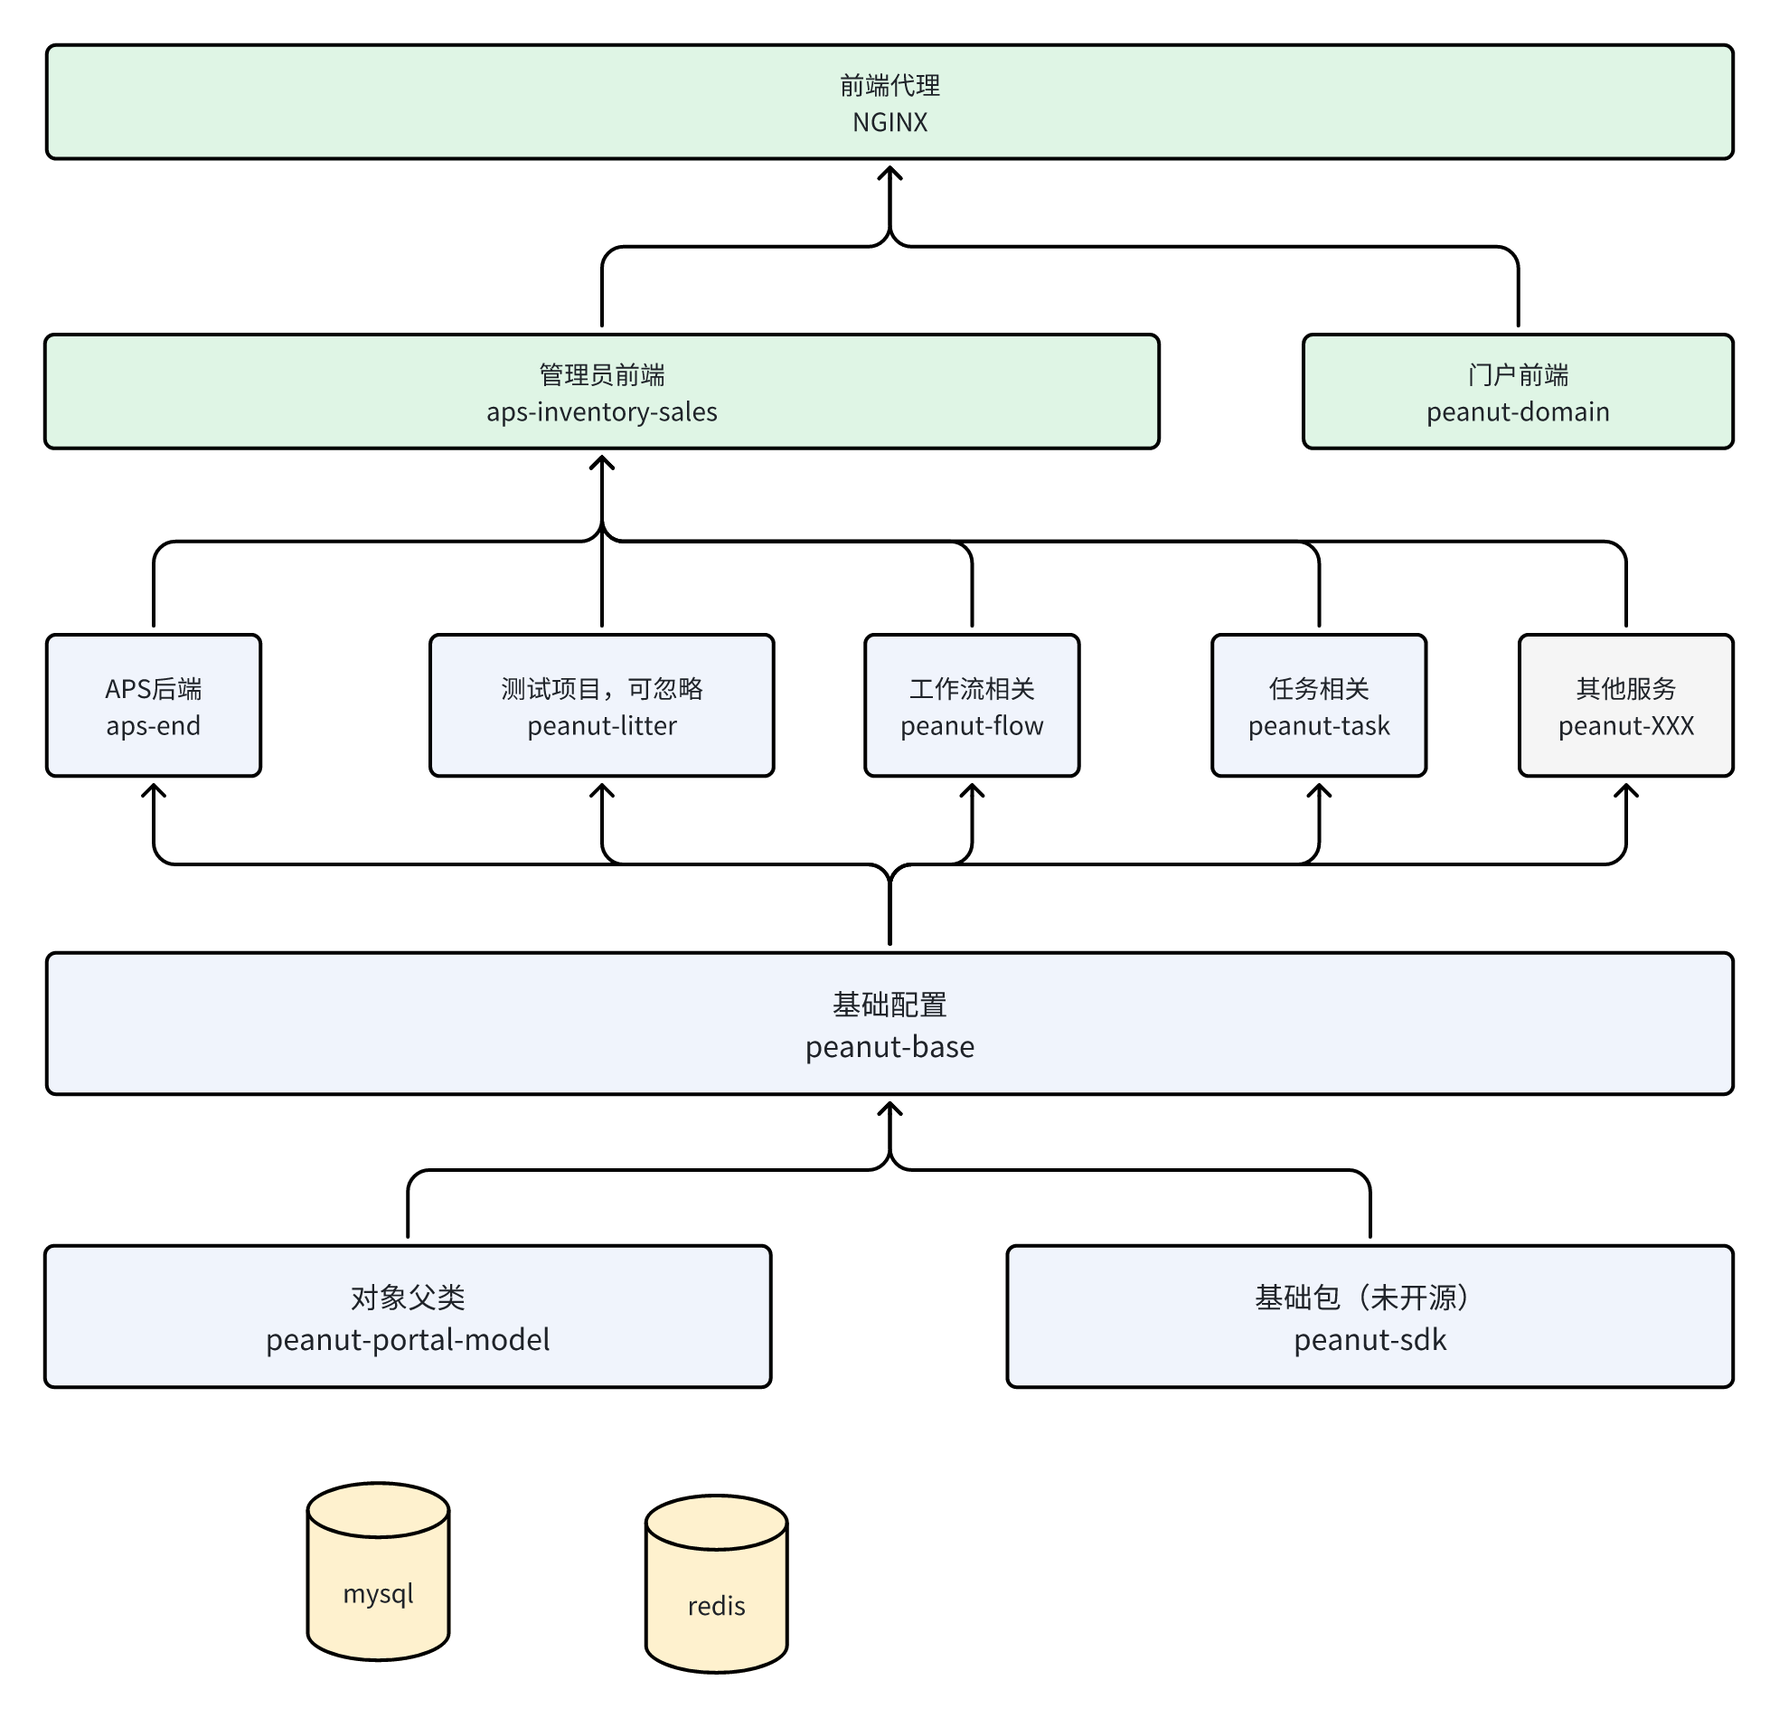
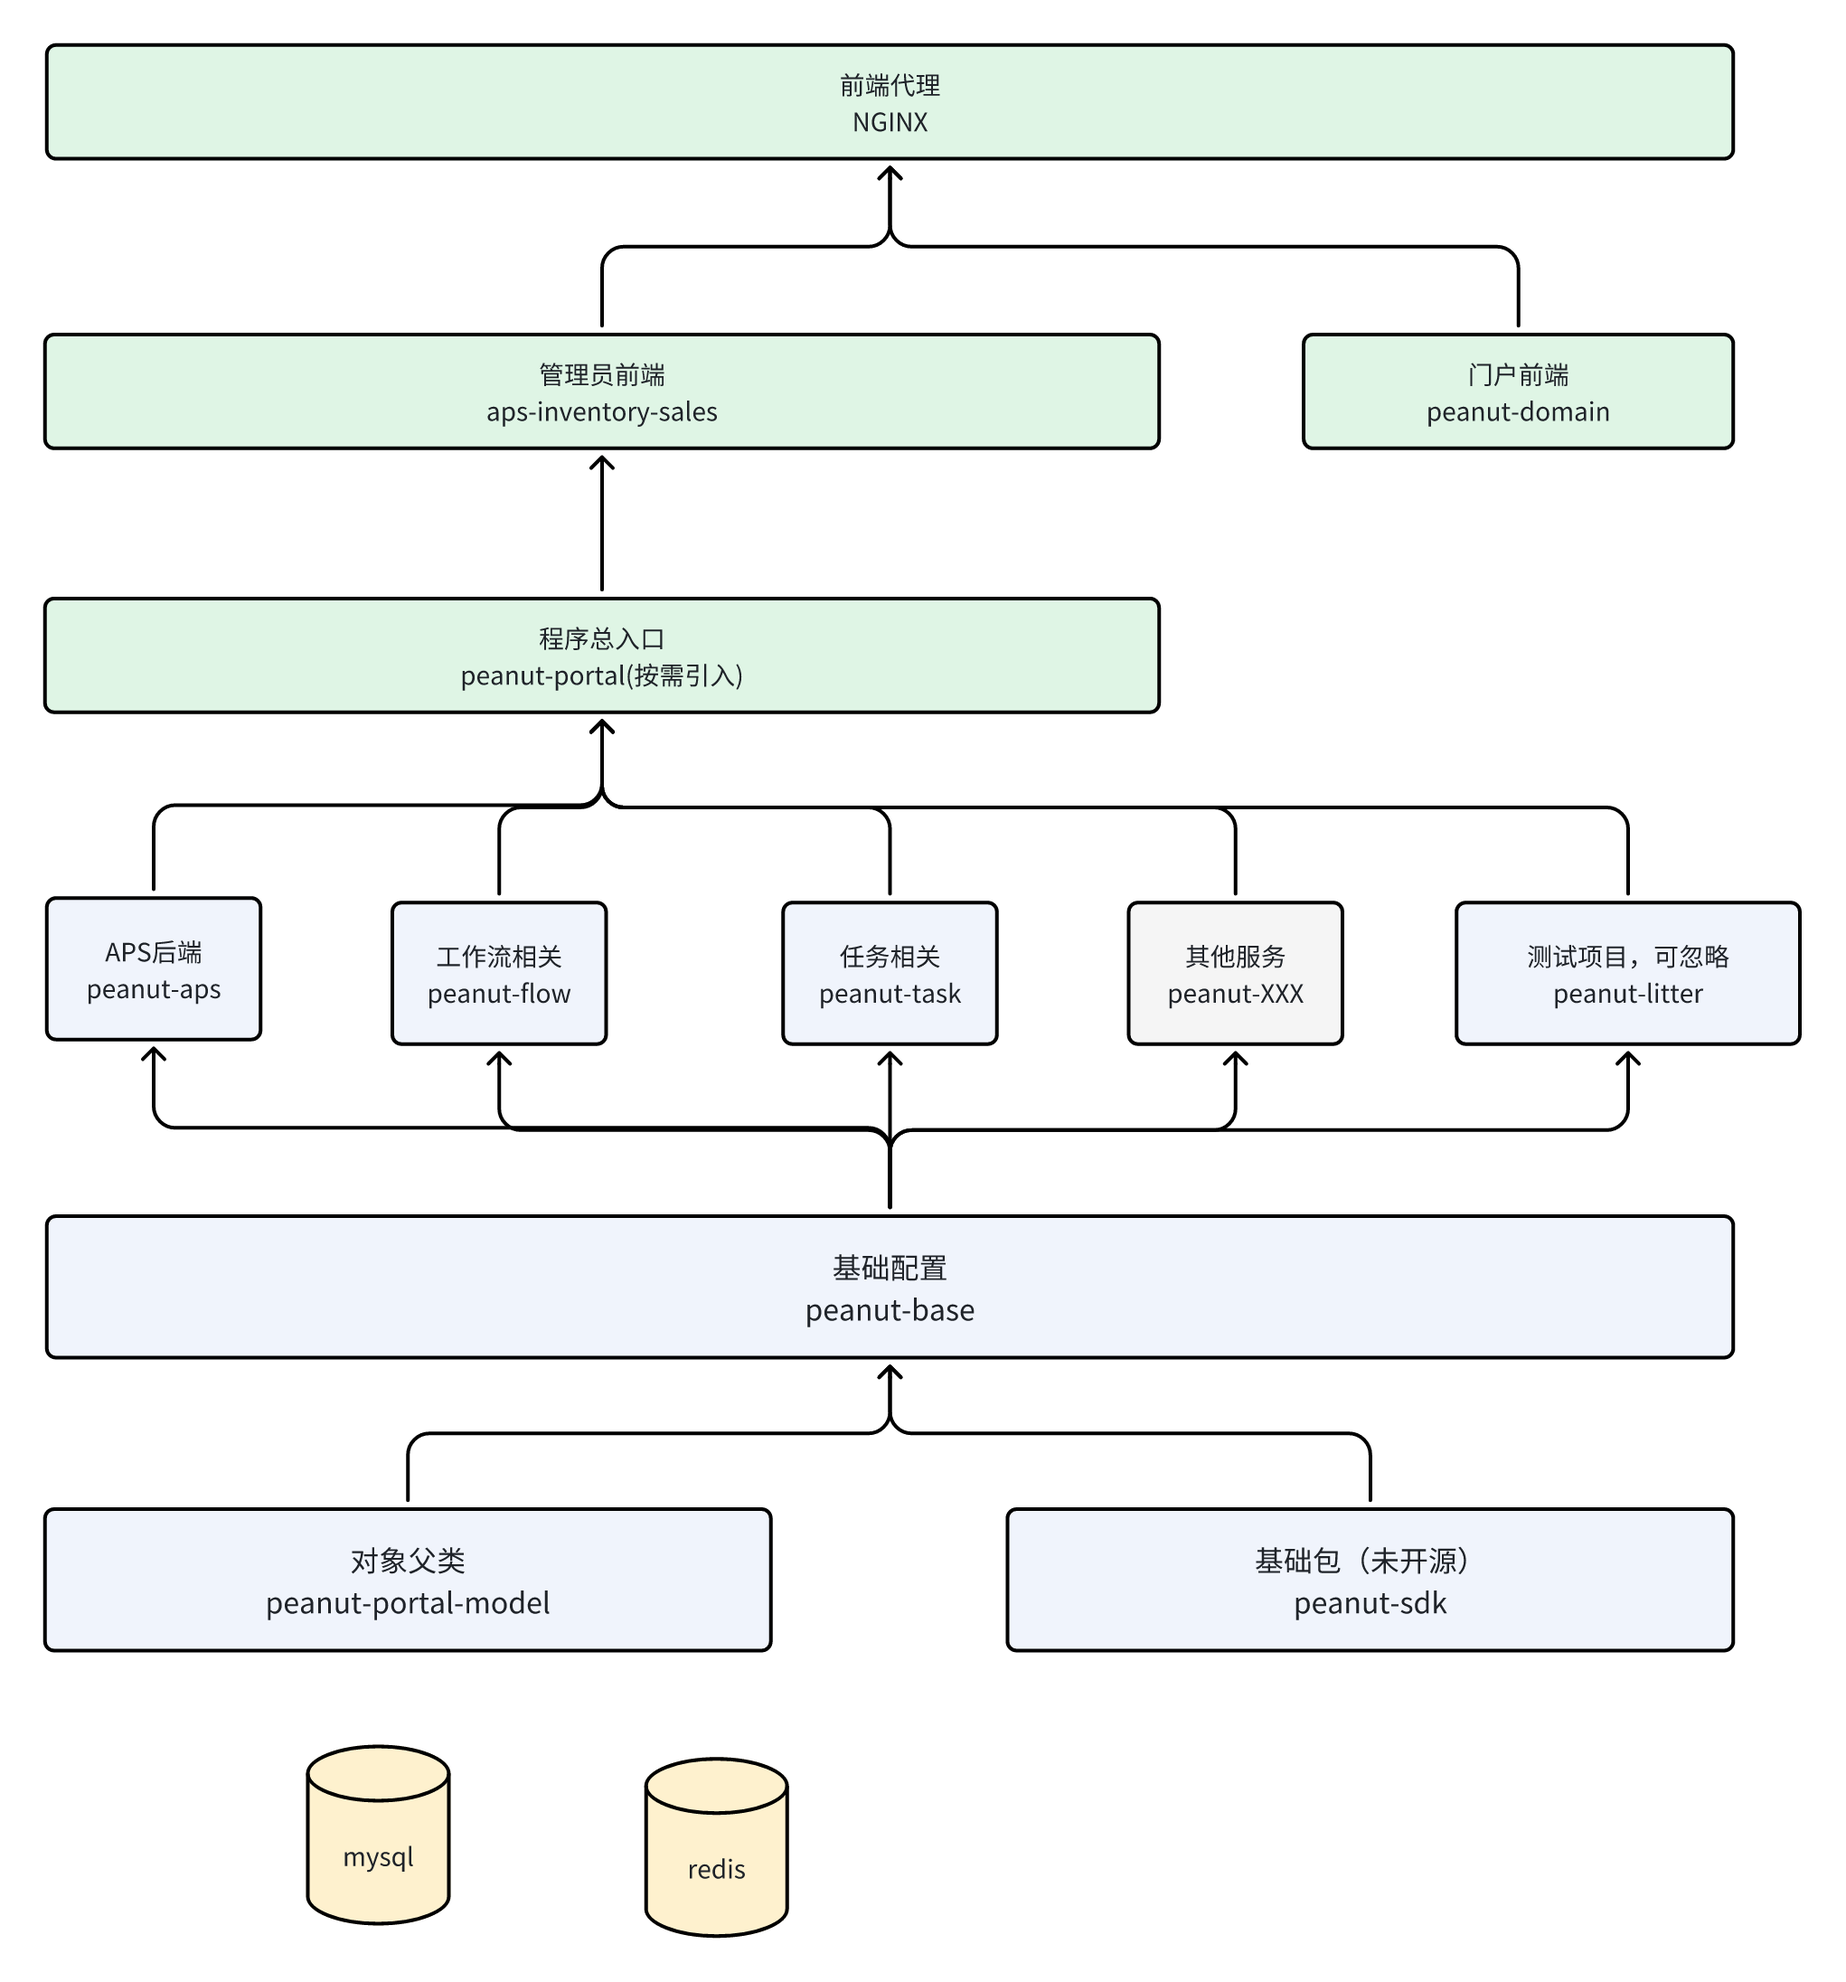
修改项目结构

diff --git a/src/test/java/com/olivia/menu/Menu.java b/src/test/java/com/olivia/menu/Menu.java
@@ -1,6 +1,7 @@
 package com.olivia.menu;
 
 import cn.hutool.core.collection.CollUtil;
+import com.olivia.peanut.task.api.entity.taskDef.TaskDefUpdateByIdRes;
 import com.olivia.sdk.utils.JSON;
 import com.baomidou.mybatisplus.core.toolkit.IdWorker;
 
@@ -65,5 +66,12 @@ public class Menu {
         setMenuId(t.children, t.id);
       });
     }
+  }
+
+  @Test
+  public void test3() {
+    com.olivia.peanut.task.api.entity.taskDef.TaskDefUpdateByIdRes res = new TaskDefUpdateByIdRes();
+    String jsonString = JSON.toJSONString(res);
+    log.info("{}", jsonString);
   }
 }
